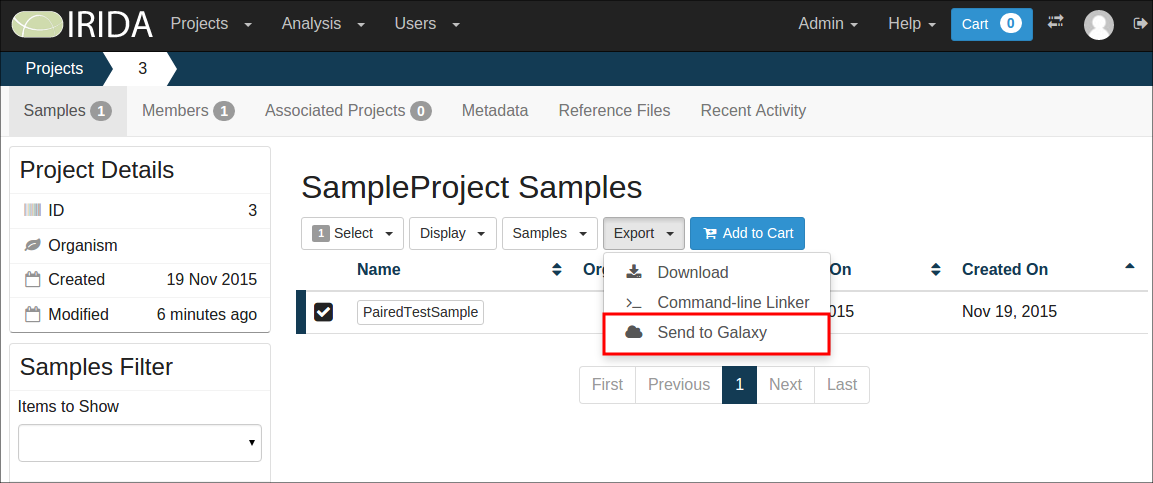
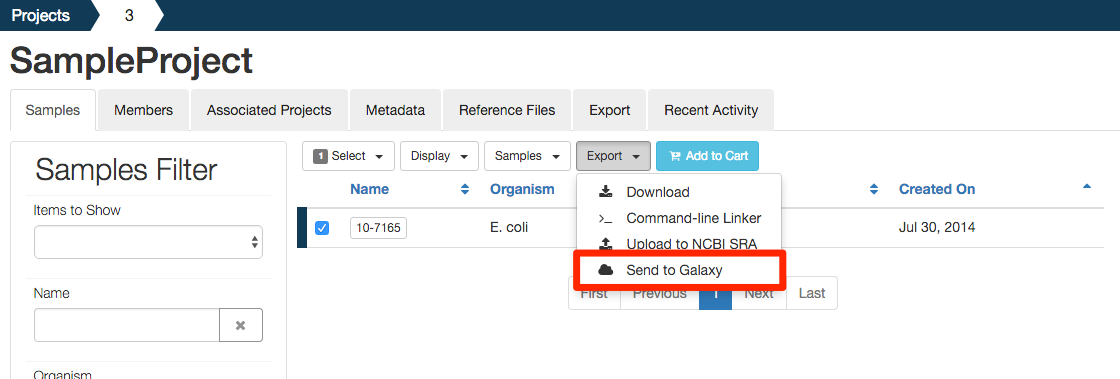
Updated docs

diff --git a/src/main/webapp/pages/projects/project_samples.html b/src/main/webapp/pages/projects/project_samples.html
@@ -256,7 +256,7 @@
 								<span th:text="#{project.samples.export.ncbi}">_Upload to NCBI_</span>
 							</a>
 						</li>
-						<li th:if="${galaxyCallback}">
+						<li>
 							<a href="#" ng-click="subnav.export.galaxy(); cart.show=false">
 								<span class="fa fa-fw fa-cloud"></span>
 								&nbsp;
